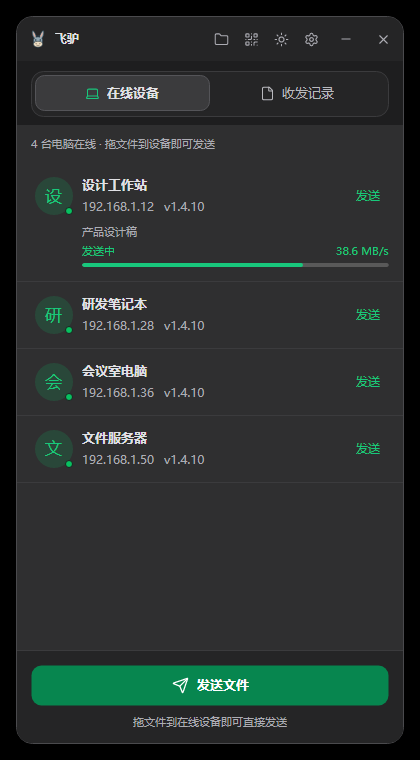
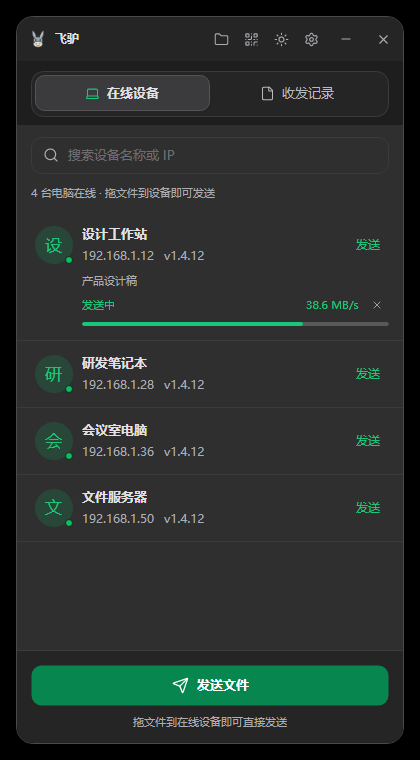
Add online device filtering by name and IP

diff --git a/tests/LanChat.IntegrationTests/DeviceFilterTests.cs b/tests/LanChat.IntegrationTests/DeviceFilterTests.cs
@@ -1,0 +1,97 @@
+using Avalonia;
+using Avalonia.Automation;
+using Avalonia.Controls;
+using Avalonia.Headless;
+using Avalonia.Input;
+using Avalonia.Threading;
+using Avalonia.VisualTree;
+using LanChat.Core.Localization;
+using LanChat.Core.Models;
+using LanChat.Desktop.ViewModels;
+using LanChat.Desktop.Views;
+using LanChat.Infrastructure.Networking;
+using LanChat.Infrastructure.Storage;
+
+namespace LanChat.IntegrationTests;
+
+internal static partial class Program
+{
+    private static void RunDeviceFilterTests()
+    {
+        var store = new IndexedFileStore(Path.Combine(TestRoot, "device-filter"));
+        var node = new LanService(store, new UserProfile { StartWithWindows = false }, new NodeOptions { EnableDiscovery = false });
+        var ui = new TestUiServices();
+        using var model = new MainWindowViewModel(node, store, ui);
+        var alice = Device("Alice Workstation", "192.168.1.10");
+        var bob = Device("研发电脑", "10.20.30.40");
+        var cara = Device("Cara Laptop", "192.168.1.33");
+        model.Inbox.UpdatePeer(alice); model.Inbox.UpdatePeer(bob); model.Inbox.UpdatePeer(cara);
+        var window = new MainWindow { DataContext = model }; window.Show();
+        try
+        {
+            Layout();
+            var view = window.GetVisualDescendants().OfType<FileInboxView>().Single();
+            var devices = view.FindControl<ItemsControl>("OnlineDeviceList")!;
+            var search = view.FindControl<TextBox>("DeviceSearch")!;
+            var clear = view.FindControl<Button>("ClearDeviceSearchButton")!;
+            var empty = view.FindControl<StackPanel>("NoMatchingDevices")!;
+            Check(devices.ItemsSource == model.Inbox.VisibleDevices && model.Inbox.VisibleDevices.SequenceEqual(new[] { alice, bob, cara })
+                && !clear.IsVisible, "online device filter initially shows every device in the original order");
+            search.Text = "  ALICE  "; Layout();
+            Check(model.Inbox.VisibleDevices.SequenceEqual(new[] { alice }) && clear.IsEffectivelyVisible
+                && model.Inbox.Recipients.Count == 3, "device name search ignores case and surrounding whitespace without changing recipients");
+            search.Text = "20.30"; Layout();
+            Check(model.Inbox.VisibleDevices.SequenceEqual(new[] { bob }), "partial IP address search matches the correct online device");
+            bob.IsRecipientSelected = true;
+            model.Inbox.BeginSendFiles([]); Layout();
+            Check(model.Inbox.Recipients.Count == 3 && bob.IsRecipientSelected && model.Inbox.CanConfirm
+                && view.FindControl<ItemsControl>("RecipientList")!.ItemsSource == model.Inbox.Recipients,
+                "filtering the online view preserves the complete recipient picker and checked devices");
+            model.Inbox.CancelPicker();
+            bob.Update(bob.Model with { Address = "10.20.31.40" }); Layout();
+            Check(model.Inbox.VisibleDevices.Count == 0 && empty.IsEffectivelyVisible && !model.Inbox.NoRecipients,
+                "changing an online device IP immediately removes it from results and shows a distinct no-match state");
+            alice.Update(alice.Model with { Address = "10.20.30.8" }); Layout();
+            Check(model.Inbox.VisibleDevices.SequenceEqual(new[] { alice }) && !empty.IsVisible, "device address changes can immediately add a matching result");
+            alice.Update(alice.Model with { IsOnline = false }); model.Inbox.UpdatePeer(alice); Layout();
+            Check(model.Inbox.VisibleDevices.Count == 0 && model.Inbox.Recipients.Count == 2, "offline devices disappear from filtered results and the recipient list");
+            alice.Update(alice.Model with { IsOnline = true }); model.Inbox.UpdatePeer(alice); Layout();
+            Check(model.Inbox.VisibleDevices.SequenceEqual(new[] { alice }), "returning devices are immediately re-evaluated against the active filter");
+            search.Text = "设计"; Layout();
+            cara.Update(cara.Model with { Nickname = "设计工作站" }); Layout();
+            Check(model.Inbox.VisibleDevices.SequenceEqual(new[] { cara }), "renaming a device updates the active search without reopening the view");
+            Localizer.SetPreference("en-US"); Layout();
+            Check(search.Watermark == "Search device name or IP" && AutomationProperties.GetName(clear) == "Clear device filter", "search placeholder and clear control switch to English live");
+            var point = clear.TranslatePoint(new Point(clear.Bounds.Width / 2, clear.Bounds.Height / 2), window)!.Value;
+            window.MouseDown(point, MouseButton.Left); window.MouseUp(point, MouseButton.Left); Layout();
+            Check(model.Inbox.DeviceSearch == "" && !clear.IsVisible && model.Inbox.VisibleDevices.SequenceEqual(model.Inbox.Recipients),
+                "clicking the clear cross restores all online devices and hides the cross");
+            search.Text = "  "; Layout();
+            Check(model.Inbox.VisibleDevices.Count == 3 && !empty.IsVisible && clear.IsVisible, "whitespace-only search shows all devices and can still be cleared");
+            model.Inbox.ClearDeviceSearchCommand.Execute(null);
+            foreach (var theme in new[] { "Dark", "Light" })
+            foreach (var width in new[] { 360d, 420d })
+            {
+                Pump(model.Settings.SetThemeCommand.ExecuteAsync(theme)); window.Width = width; Layout();
+                Check(view.FindControl<ScrollViewer>("DeviceScroll")!.Extent.Width <= view.FindControl<ScrollViewer>("DeviceScroll")!.Viewport.Width + 1
+                    && search.Bounds.Width > 0 && search.TranslatePoint(new Point(search.Bounds.Width, 0), window)!.Value.X <= window.Bounds.Width,
+                    $"{theme} online search and rows fit at {width}px");
+                Render(window, $"device-filter-{theme.ToLowerInvariant()}-{width}.png");
+            }
+            search.Text = "unmatched";
+            foreach (var peer in new[] { alice, bob, cara }) { peer.Update(peer.Model with { IsOnline = false }); model.Inbox.UpdatePeer(peer); }
+            Layout();
+            Check(model.Inbox.NoRecipients && !model.Inbox.NoMatchingDevices && !empty.IsVisible, "no online devices shows the original discovery state even with a search term");
+        }
+        finally
+        {
+            Localizer.SetPreference("System"); model.Dispose();
+            window.AllowClose = true; window.Close();
+            alice.Dispose(); bob.Dispose(); cara.Dispose(); Pump(node.DisposeAsync().AsTask());
+        }
+
+        static PeerViewModel Device(string name, string address) => new(new Peer { Id = Guid.NewGuid().ToString("N"), Nickname = name,
+            Address = address, Port = 45832, Fingerprint = new string('A', 64) });
+        void Layout() { Dispatcher.UIThread.RunJobs(); window.UpdateLayout(); Pump(Task.Delay(20)); window.UpdateLayout(); }
+    }
+}

diff --git a/src/LanChat.Desktop/ViewModels/FileInboxViewModel.cs b/src/LanChat.Desktop/ViewModels/FileInboxViewModel.cs
@@ -27,8 +27,10 @@ public partial class FileInboxViewModel(ILanService lan, ILocalStore store, IUiS
     public const int PageSize = 50;
     public ObservableCollection<FileHistoryItemViewModel> Files { get; } = [];
     public ObservableCollection<PeerViewModel> Recipients { get; } = [];
+    public ObservableCollection<PeerViewModel> VisibleDevices { get; } = [];
     [ObservableProperty, NotifyPropertyChangedFor(nameof(IsDevices)), NotifyPropertyChangedFor(nameof(IsHistory)), NotifyPropertyChangedFor(nameof(ShowTransferSummary))] private int _selectedTab;
     [ObservableProperty] private string _search = "";
+    [ObservableProperty] private string _deviceSearch = "";
     [ObservableProperty, NotifyPropertyChangedFor(nameof(DropHint))] private string _dropTargetName = "";
     public string DropHint => DropTargetName.Length == 0 ? "拖文件到在线设备即可直接发送" : "松开发送给 " + DropTargetName;
     [ObservableProperty, NotifyPropertyChangedFor(nameof(IsEmpty)), NotifyPropertyChangedFor(nameof(HistoryHint))] private bool _isLoading;
@@ -51,6 +53,8 @@ public partial class FileInboxViewModel(ILanService lan, ILocalStore store, IUiS
     public bool HasPendingItems => _pendingFiles.Count > 0;
     public bool IsEmpty => !IsLoading && Files.Count == 0;
     public bool NoRecipients => Recipients.Count == 0;
+    public bool HasDeviceSearch => DeviceSearch.Length > 0;
+    public bool NoMatchingDevices => Recipients.Count > 0 && VisibleDevices.Count == 0 && !string.IsNullOrWhiteSpace(DeviceSearch);
     public string EmptyText => string.IsNullOrWhiteSpace(Search) ? "还没有收到文件" : "没有找到匹配的文件";
     public string EmptyHint => string.IsNullOrWhiteSpace(Search) ? "局域网内的文件会显示在这里" : "试试其他文件名";
     public string HistoryHint => IsLoading ? "正在加载记录…" : Files.Count == 0 ? "" : HasMore ? "向上滚动，加载更早记录" : "已显示全部记录";
@@ -65,6 +69,39 @@ public partial class FileInboxViewModel(ILanService lan, ILocalStore store, IUiS
         OnPropertyChanged(nameof(HasSearch));
         OnPropertyChanged(nameof(EmptyText)); OnPropertyChanged(nameof(EmptyHint));
         SearchTask = ResetHistoryAsync(true);
+    }
+
+    partial void OnDeviceSearchChanged(string value)
+    {
+        foreach (var peer in Recipients) UpdateVisibleDevice(peer);
+        OnPropertyChanged(nameof(HasDeviceSearch)); OnPropertyChanged(nameof(NoMatchingDevices));
+    }
+
+    private bool MatchesDevice(PeerViewModel peer)
+    {
+        var search = DeviceSearch.Trim();
+        return peer.IsOnline && (search.Length == 0 || peer.Nickname.Contains(search, StringComparison.OrdinalIgnoreCase)
+            || peer.Address.Contains(search, StringComparison.OrdinalIgnoreCase));
+    }
+
+    private void UpdateVisibleDevice(PeerViewModel peer)
+    {
+        var existing = VisibleDevices.IndexOf(peer);
+        if (!Recipients.Contains(peer) || !MatchesDevice(peer))
+        {
+            if (existing >= 0) VisibleDevices.RemoveAt(existing);
+        }
+        else if (existing < 0)
+        {
+            var index = 0;
+            foreach (var recipient in Recipients)
+            {
+                if (recipient == peer) break;
+                if (MatchesDevice(recipient)) index++;
+            }
+            VisibleDevices.Insert(Math.Min(index, VisibleDevices.Count), peer);
+        }
+        OnPropertyChanged(nameof(NoMatchingDevices));
     }
 
     private async Task ResetHistoryAsync(bool debounce)
@@ -177,6 +214,7 @@ public partial class FileInboxViewModel(ILanService lan, ILocalStore store, IUiS
             peer.IsRecipientSelected = false; peer.PropertyChanged -= RecipientChanged;
             Recipients.Remove(peer); if (SelectedRecipient == peer) SelectedRecipient = null;
         }
+        UpdateVisibleDevice(peer);
         OnPropertyChanged(nameof(NoRecipients));
         OnPropertyChanged(nameof(OnlineHint));
         OnPropertyChanged(nameof(CanConfirm));
@@ -190,8 +228,10 @@ public partial class FileInboxViewModel(ILanService lan, ILocalStore store, IUiS
 
     private void RecipientChanged(object? sender, PropertyChangedEventArgs args)
     {
-        if (args.PropertyName != nameof(PeerViewModel.IsRecipientSelected)) return;
-        OnPropertyChanged(nameof(CanConfirm)); OnPropertyChanged(nameof(PickerSelectionHint));
+        if (sender is PeerViewModel peer && args.PropertyName is nameof(PeerViewModel.Nickname) or nameof(PeerViewModel.Address) or nameof(PeerViewModel.IsOnline))
+            UpdateVisibleDevice(peer);
+        if (args.PropertyName == nameof(PeerViewModel.IsRecipientSelected))
+        { OnPropertyChanged(nameof(CanConfirm)); OnPropertyChanged(nameof(PickerSelectionHint)); }
     }
 
     [RelayCommand] private void BeginSend() => BeginSendFiles([]);
@@ -204,6 +244,7 @@ public partial class FileInboxViewModel(ILanService lan, ILocalStore store, IUiS
     }
     [RelayCommand] public void CancelPicker() { IsPickerOpen = false; _pendingFiles = []; OnPropertyChanged(nameof(HasPendingItems)); OnPropertyChanged(nameof(PickerAction)); }
     [RelayCommand] private void ClearSearch() => Search = "";
+    [RelayCommand] private void ClearDeviceSearch() => DeviceSearch = "";
     public void RevealLatest()
     {
         SelectedTab = 1;
@@ -401,6 +442,7 @@ public partial class FileInboxViewModel(ILanService lan, ILocalStore store, IUiS
         if (_disposed) return;
         _disposed = true; _transfers.Cancel(); _searchCancellation?.Cancel();
         foreach (var peer in Recipients) peer.PropertyChanged -= RecipientChanged;
+        VisibleDevices.Clear();
         _searchCancellation?.Dispose(); _transfers.Dispose();
     }
 }

diff --git a/tests/LanChat.IntegrationTests/DeviceTabsAndReceiveTests.cs b/tests/LanChat.IntegrationTests/DeviceTabsAndReceiveTests.cs
@@ -46,6 +46,8 @@ internal static partial class Program
         var otherNode = new LanService(otherStore, new UserProfile { Nickname = "工程电脑 · 文件接收工作站" }, new NodeOptions { EnableDiscovery = false });
         Pump(otherNode.StartAsync()); Pump(node.ConnectAsync("127.0.0.1", otherNode.Port)); Layout();
         var other = model.Inbox.Recipients.Single(x => x.Id == otherNode.Profile.Id);
+        model.Inbox.DeviceSearch = "工程电脑"; Layout();
+        Check(model.Inbox.VisibleDevices.SequenceEqual(new[] { other }), "device filtering retains the exact direct-drop target");
         var sendA = Path.Combine(TestRoot, "直接拖给设备A.txt"); File.WriteAllText(sendA, "拖给指定的电脑 A");
         var sendB = Path.Combine(TestRoot, "直接拖给设备B.txt"); File.WriteAllText(sendB, "拖给指定的电脑 B");
         using var data = new DataTransfer();
@@ -71,6 +73,7 @@ internal static partial class Program
         Check(!model.Inbox.IsPickerOpen && !row.Classes.Contains("drop-target") && otherStore.LoadMessagesAsync().GetAwaiter().GetResult().Count == 2
             && remoteStore.LoadMessagesAsync().GetAwaiter().GetResult().Count == originalCount,
             "dropping on a device immediately sends the deduplicated batch to that exact device without a recipient popup");
+        model.Inbox.ClearDeviceSearchCommand.Execute(null); Layout();
         var sendButton = row.GetVisualDescendants().OfType<Button>().Single(x => Equals(x.Content, "发送"));
         ui.NextFile = sendA;
         Click(window, sendButton);

diff --git a/tests/LanChat.IntegrationTests/Program.cs b/tests/LanChat.IntegrationTests/Program.cs
@@ -251,6 +251,7 @@ internal static partial class Program
         RunLocalizationUiTests();
         RunThemeToggleTests(window, model, store);
         RunQrUploadNotificationTests();
+        RunDeviceFilterTests();
         model.Dispose();
         window.AllowClose = true; window.Close();
         Pump(node.DisposeAsync().AsTask()); Pump(remote.DisposeAsync().AsTask());

diff --git a/docs/technical-guide.md b/docs/technical-guide.md
@@ -42,6 +42,8 @@ HTTP 服务仅在点击按钮后启动，最小化和切换页面仍继续运行
 
 通过 UDP 45831 的 IPv4 组播和广播发现设备，上线时其他客户端立即单播应答；应答限流且不会再次触发应答。每秒心跳，后台每 500 毫秒检查状态，超过 3 秒未活动时进行 750 毫秒 TLS 探测；正常退出主动广播离线，异常退出通常约 3–5 秒标记离线。探测不请求头像，并限制并发数量。网络不支持广播或组播时，可在设置里使用 IP 和 TCP 45832 手动连接。
 
+在线设备搜索按名称或 IP 做忽略大小写的子串匹配，前后空格不影响匹配。筛选后的列表复用原有设备 ViewModel 和虚拟化列表；名称、地址和在线状态变化时增量更新，不创建后台轮询任务。接收人选择器仍使用完整的在线列表，筛选不会更改选择状态或拖拽目标。无在线设备和筛选无结果显示不同的提示。
+
 文件正文按 64 KiB 异步读写，使用固定缓冲区，不把整个文件读入内存；目录惰性枚举，不建立完整文件树。接收每个文件校验 SHA-256；进度最多约每秒更新 4 次，完成时保留平均速度。实际发送以信号量串行调度。退出时取消异步任务，关闭连接，解除事件订阅，释放图片资源。
 
 客户端之间的文件、文件夹及共享下载不设传输总时长限制；TCP/TLS 建立连接仍有 15 秒限制，服务端握手和请求读取仍有 20 秒限制。v1.4.10 及更早版本仍会在各自一端执行 30 分钟总超时，两端均需升级才能完整移除限制。接收方可从接收提示或历史记录取消指定下载，共享页面可取消共享文件下载；发送设备行可取消正在提供的文件或文件夹，准备阶段取消会停止当前发送批次。取消会关闭传输连接、清理未完成文件和空的接收目录，保留可重试的记录；另一端会感知连接中断。当前无断点续传，重试从头开始。二维码 HTTP 上传仍有 60 秒无活动超时，并不限制持续上传的总时长。
@@ -118,7 +120,7 @@ git diff
 
 ```powershell
 .\scripts\publish.ps1 -Runtime win-x64
-# artifacts/feilv-v1.4.11-win-x64-setup.exe
+# artifacts/feilv-v1.4.12-win-x64-setup.exe
 ```
 
 版本号由 Directory.Build.props 统一维护，设置页、发行包和程序版本一致。Native AOT 依赖目标系统的原生链接器：Windows 为 MSVC C++ 与 Windows SDK，macOS 为 Xcode 命令行工具，Linux 为 clang、zlib 开发包。Windows 安装包使用 Inno Setup 6.7.1 或更新版本，其 BrowseForFolder 脚本接口通过 IFileDialog 打开现代系统目录选择器；GitHub Windows 构建机已包含编译器。本地已有原生发行目录时，也可用 scripts/build-installer.ps1 -SourceDirectory 目录直接封装。发布必须在目标系统和架构的机器上执行，不会回退到托管发布。

diff --git a/README.en.md b/README.en.md
@@ -29,7 +29,7 @@ Feilv is a LAN file transfer app built with **C# / Avalonia UI**. It discovers d
 | :---: | :---: |
 | <img src="docs/images/en/devices-dark.png" width="340" alt="Online devices showing names, IP addresses, versions, transfer progress and speed" /> | <img src="docs/images/en/history-light.png" width="340" alt="Transfer history showing filenames, sizes, source computers, IP addresses, timestamps and receive actions" /> |
 
-<p align="center"><sub>Actual v1.4.10 interface, populated with demo devices, files and transfers.</sub></p>
+<p align="center"><sub>Actual v1.4.12 interface, populated with demo devices, files and transfers.</sub></p>
 
 <details>
 <summary><strong>More: QR sharing, languages, themes, sending and receiving</strong></summary>
@@ -52,7 +52,7 @@ Feilv is a LAN file transfer app built with **C# / Avalonia UI**. It discovers d
 
 | Feature | What it does |
 | --- | --- |
-| Automatic discovery | Shows device name, avatar, IP address and version; updates online status promptly. |
+| Automatic discovery | Shows device name, avatar, IP address and version; updates online status promptly. Filter by name or IP and clear the filter with one click. |
 | Drag and drop | Drop files or folders onto a device row, or select multiple files and recipients. Computers are served one at a time. |
 | Folder transfers | Sends files and subdirectories recursively, including empty folders, without creating a ZIP. |
 | Live progress | Shows progress and speed in the device row. Files are streamed with bounded buffers. |
@@ -86,6 +86,8 @@ On macOS / Linux, extract the **entire** archive and run `./feilv`. macOS builds
 1. **Join the same LAN.** Launch Feilv on both computers. Allow private-network access if Windows Firewall asks. Devices appear automatically; use Settings to connect by IP if needed.
 2. **Pick a recipient and send.** Drop files or folders onto a device row, or use its **Send** menu. The bottom **Send files** button lets you choose multiple recipients and sends to each in order.
 3. **Watch reception.** Automatic reception is on by default. A corner popup shows progress and speed, then offers **Show in folder**. Disable automatic reception in Settings to choose **Receive / Decline** for each offer. The sender sees **Declined by recipient** when you decline.
+
+Use the search box above the device list to filter by name or IP. Click the cross to clear it. Filtering only changes the visible list; the send dialog still offers all online recipients.
 
 **Shared folders:** Open **Shared folders** from the title-bar menu. Add a local directory, or choose an online computer to browse its shares.
 

diff --git a/docs/releases/v1.4.12.md b/docs/releases/v1.4.12.md
@@ -1,0 +1,15 @@
+## 飞驴 v1.4.12 / Feilv v1.4.12
+
+- 在线设备列表新增搜索框，可按设备名称或 IP 实时筛选，点击右侧叉号清空。
+- 设备上下线、名称或地址变化时自动更新结果；无在线设备和筛选无结果显示不同提示。
+- 筛选仅影响在线列表展示，发送接收人选择、拖拽发送和正在进行的传输保持原有行为。
+- 搜索框和空状态支持中英文、深浅色主题。
+
+---
+
+- Added a live device filter by name or IP, with a clear button beside the search field.
+- Results update as devices connect, disconnect, change names or change addresses. Empty search results and no online devices have separate messages.
+- Filtering changes only the displayed list. Recipient selection, drag-and-drop and active transfers keep their existing behavior.
+- The search and empty states support Chinese, English, dark and light themes.
+
+更新与卸载保留本地数据。 / Updates and uninstallation preserve local data.
